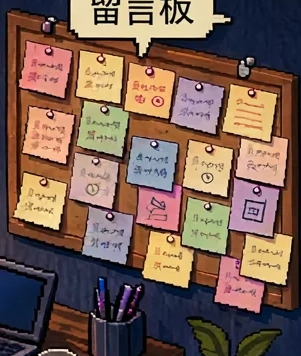
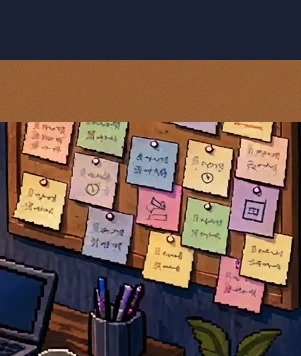
v3.3: remove baked 留言板 bubble from board sprite (was cut from original art) — every furniture item its own layer, 6 tap hotspots (walk-to-trigger), piano self-play + moving keys, real spinning vinyl, pixel music notes, day/night window (06:00/18:00), real-date calendar, darker blue cat

Changed region(s): [[0.0, 0.0, 1.0, 0.3399]]

diff --git a/index.html b/index.html
@@ -115,7 +115,7 @@
     <!-- 家具图层：每件一个 <img>，位置/尺寸对着原画量好；要换哪件，只换那张图和它的 style -->
     <img class="furn" src="assets/furn-cal.png" alt="" style="left:72.15%; top:11.52%; width:6.72%; z-index:32;">
     <div id="calDate"><div class="calM"></div><div class="calD"></div><div class="calW"></div></div>
-    <img class="furn" src="assets/furn-board.png" alt="" style="left:80.94%; top:16.87%; width:15.11%; z-index:53;">
+    <img class="furn" src="assets/furn-board.png?v=2" alt="" style="left:80.94%; top:16.87%; width:15.11%; z-index:53;">
     <img class="furn" src="assets/furn-shelf.png" alt="" style="left:12.34%; top:10.91%; width:20.67%; z-index:58;">
     <img class="furn" src="assets/furn-topplant.png" alt="" style="left:17.21%; top:10.80%; width:5.57%; z-index:59;">
     <img class="furn" src="assets/furn-topbluebox.png" alt="" style="left:22.28%; top:9.05%; width:4.82%; z-index:59;">
